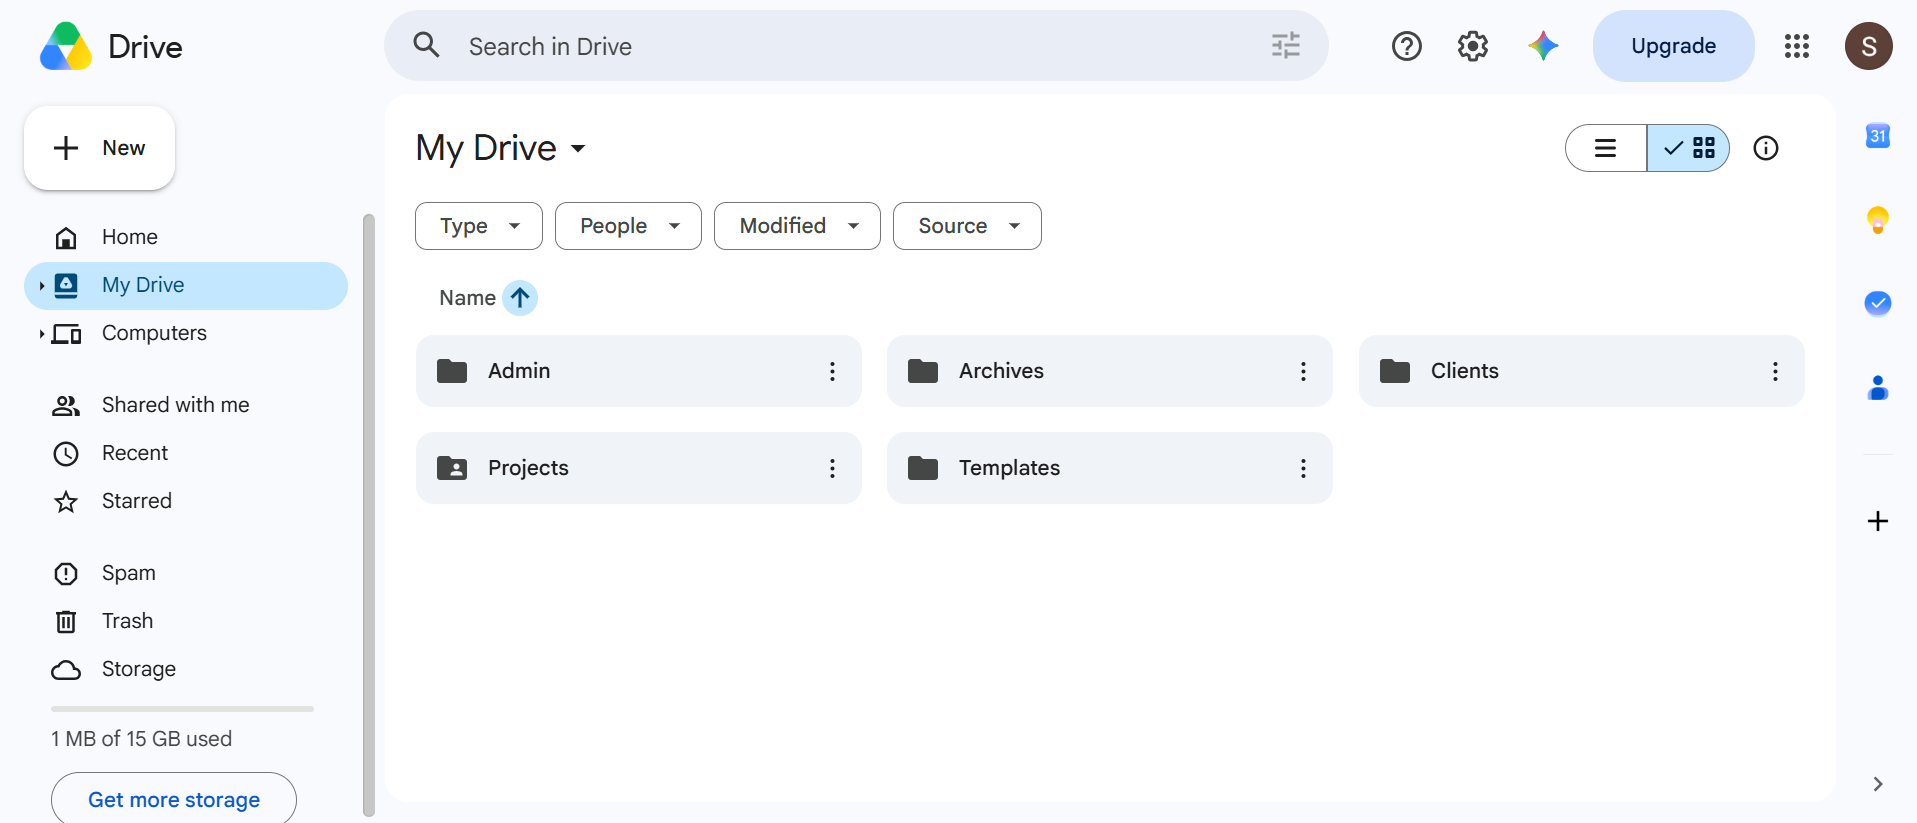
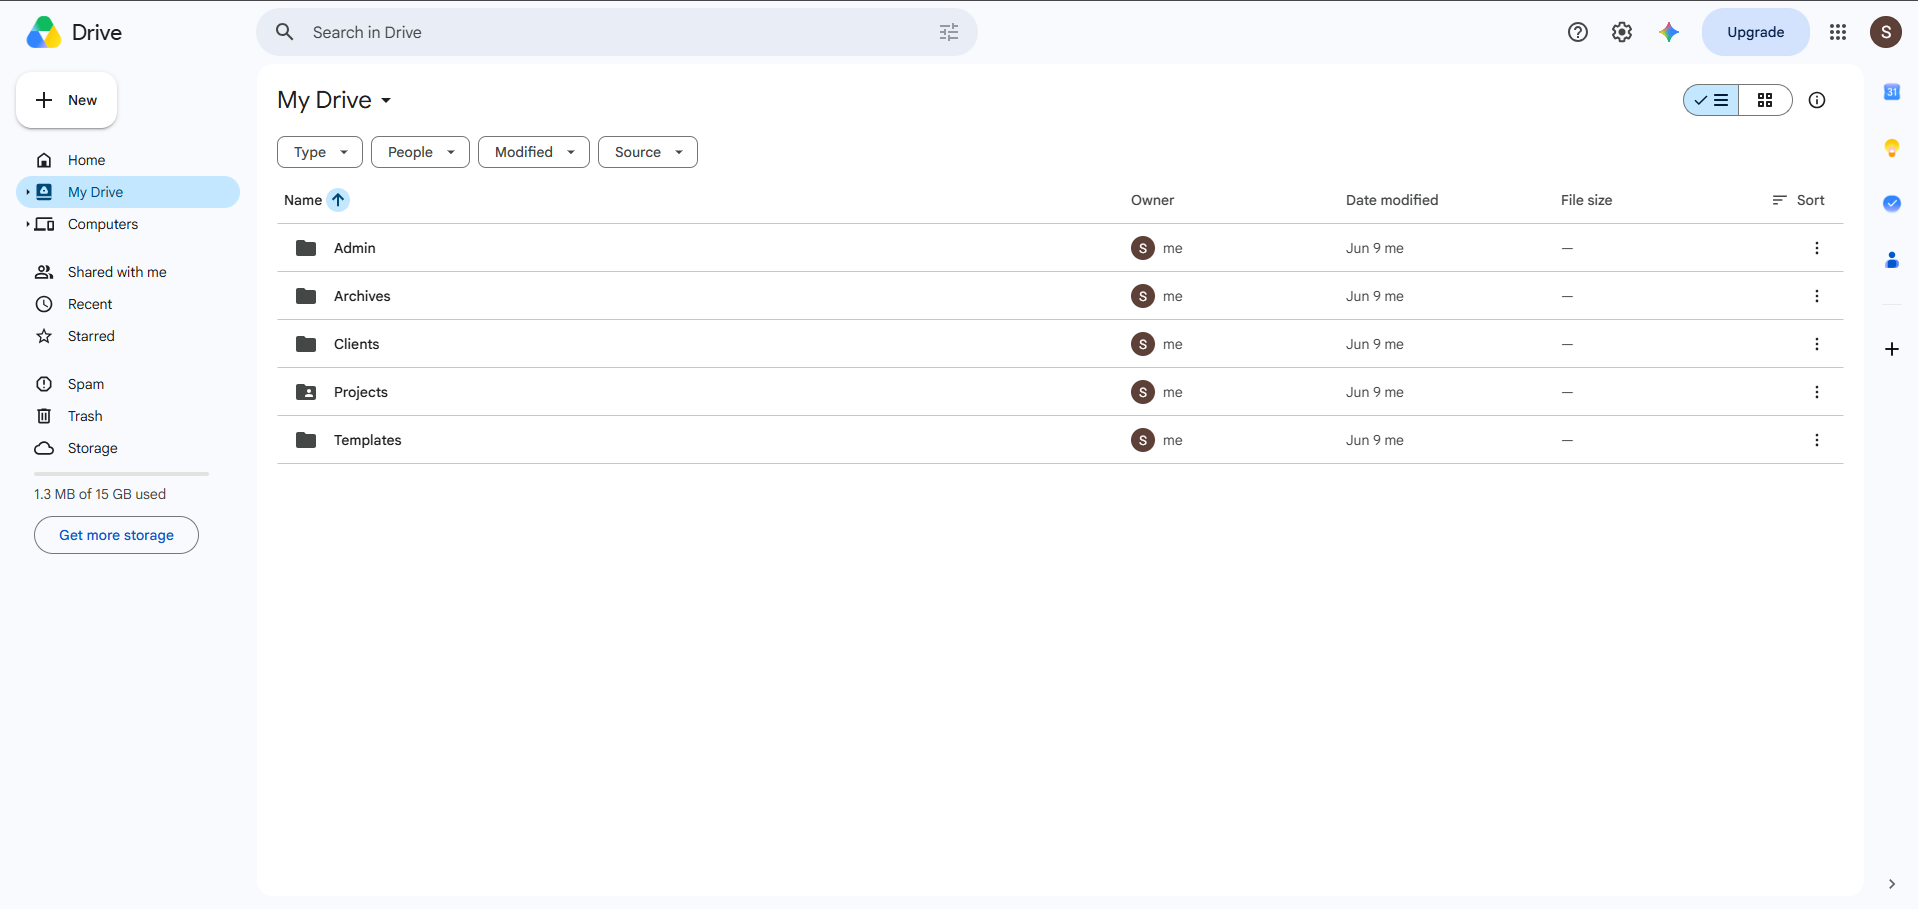
Add files via upload

diff --git a/index.html b/index.html
@@ -1421,6 +1421,10 @@
               <div class="sample-carousel-track">
                 <img src="after_drive.png" alt="Drive after" class="sample-img zoomable" onclick="openLightbox(this)" />
                 <img src="next_page_drive.png" alt="Drive before" class="sample-img zoomable" onclick="openLightbox(this)" />
+                <img src="next_page_drive1.png" alt="Drive before" class="sample-img zoomable" onclick="openLightbox(this)" />
+                <img src="next_page_drive2.png" alt="Drive before" class="sample-img zoomable" onclick="openLightbox(this)" />
+                <img src="next_page_drive3.png" alt="Drive before" class="sample-img zoomable" onclick="openLightbox(this)" />
+                <img src="next_page_drive4.png" alt="Drive before" class="sample-img zoomable" onclick="openLightbox(this)" />
               </div>
               <button class="carousel-btn carousel-prev" onclick="carouselMove(this,-1)" aria-label="Previous">
                 <svg xmlns="http://www.w3.org/2000/svg" width="14" height="14" viewBox="0 0 24 24" fill="none" stroke="currentColor" stroke-width="2.5" stroke-linecap="round" stroke-linejoin="round"><polyline points="15 18 9 12 15 6"/></svg>
